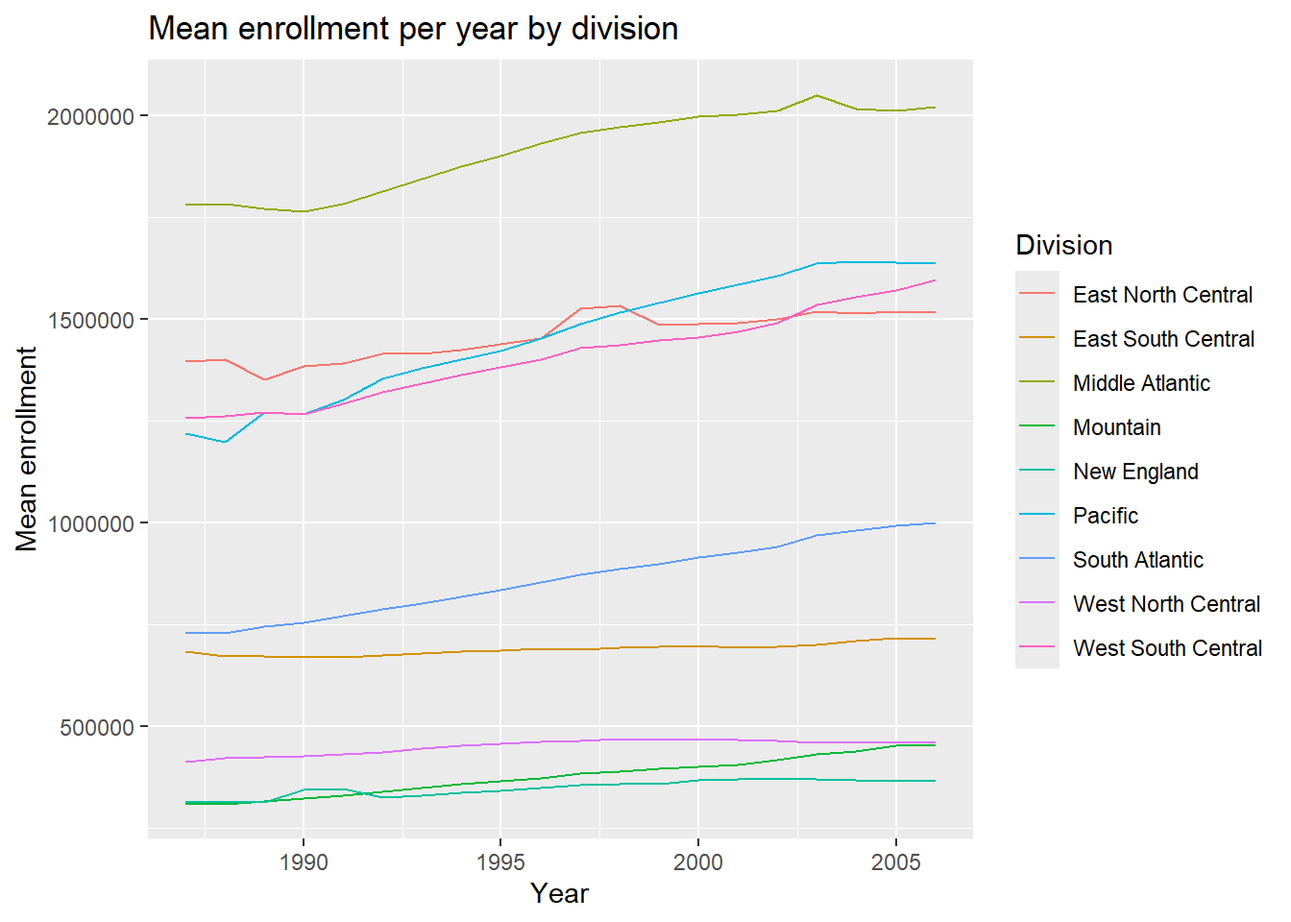
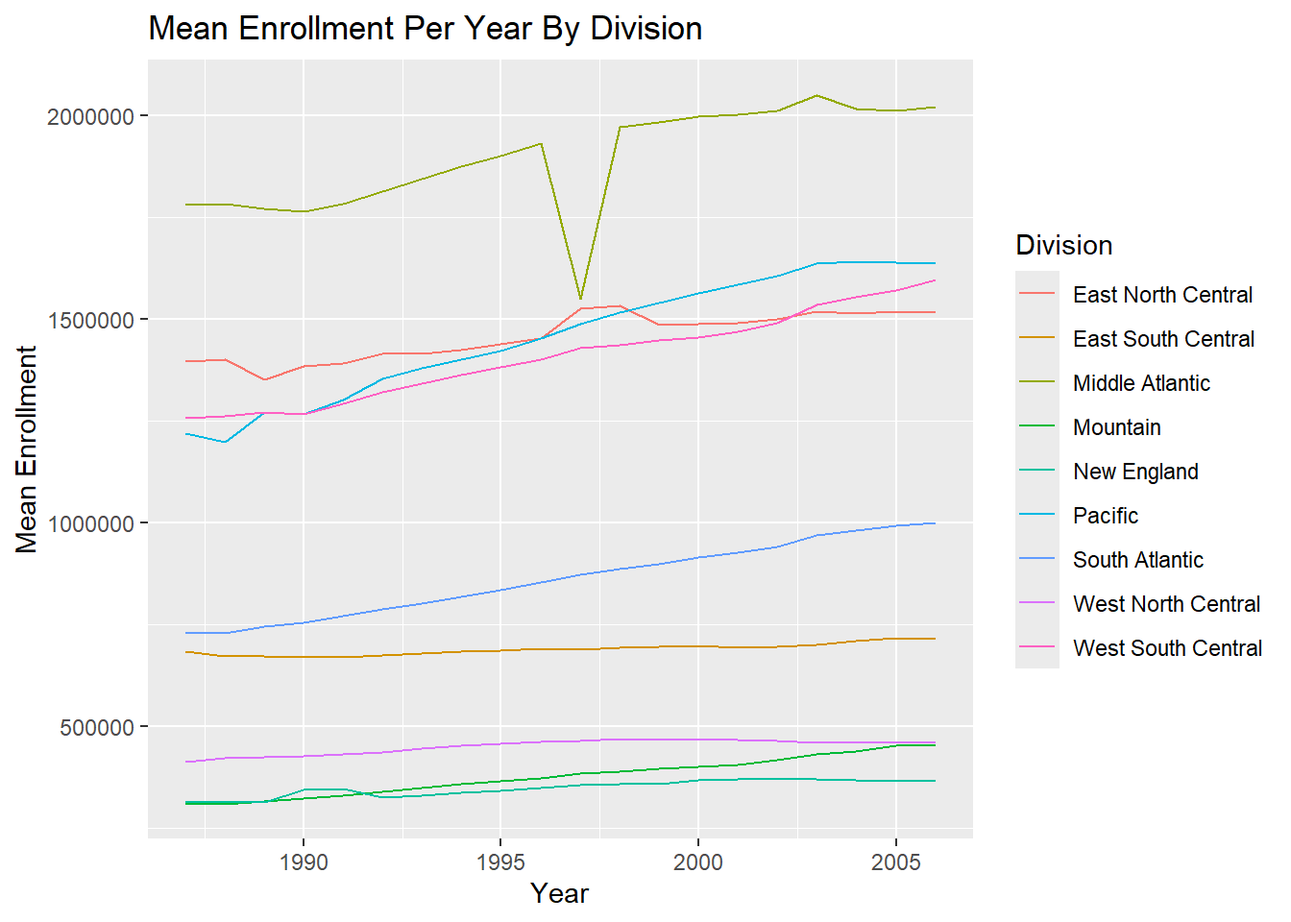
some header/narrative changes, modified state.plot to produce y-axis and title labels that are capitalized

Changed region(s): [[0.1875, 0.0, 0.5312, 0.0625], [0.0, 0.375, 0.0312, 0.5938], [0.4375, 0.2812, 0.4688, 0.3125]]

diff --git a/docs/ST558Proj1.html b/docs/ST558Proj1.html
@@ -147,9 +147,11 @@ pre > code.sourceCode > span > a:first-child::before { text-decoration: underlin
 </header>
 
 
-<section id="data-processing-first-steps" class="level1">
-<h1>Data processing first steps</h1>
+<section id="data-processing" class="level1">
+<h1>Data processing</h1>
 <p>One of the goals of this project is to create a function that can take in a URL and process and parse similar types of data sets in a specific way. The data sets we are working with are files that contain Census Bureau information.</p>
+<section id="first-steps" class="level2">
+<h2 class="anchored" data-anchor-id="first-steps">First Steps</h2>
 <section id="import-the-data" class="level3">
 <h3 class="anchored" data-anchor-id="import-the-data">Import the Data</h3>
 <p>We will start with the EDU01a data set and use it to outline the steps that will be necessary to create our wrapper function. To begin, the appropriate packages are loaded and the data imported using read_csv. This function is appropriate for csv files. The data already contains column names, which is the default for this function, so it is not necessary to specify an argument regarding column names.</p>
@@ -190,8 +192,8 @@ dbl (20): EDU010187F, EDU010187D, EDU010188F, EDU010188D, EDU010189F, EDU010...
 </div>
 </section>
 <section id="steps-1-and-2-select-columns-and-pivot-to-long-form-remove-duplicate-district-of-columbia" class="level3">
-<h3 class="anchored" data-anchor-id="steps-1-and-2-select-columns-and-pivot-to-long-form-remove-duplicate-district-of-columbia">Steps 1 and 2: Select Columns and Pivot to Long Form, remove duplicate District of Columbia</h3>
-<p>The next step is to select the columns we are interested in, followed by pivoting the data into a long format, which is more appropriate for data analysis. In this case, we are selecting Area_name, which is also being renamed to area_name, STCOU, which is a state (first 2 digits) and county (last 3 digits) code and all columns that end with a “D”. These columns ending in “D” correspond to an id that identifies the type of survey and value associated with it and the 2 digit year.</p>
+<h3 class="anchored" data-anchor-id="steps-1-and-2-select-columns-and-pivot-to-long-form-remove-duplicate-district-of-columbia">Steps 1 and 2: Select Columns and Pivot to Long Form, Remove Duplicate District of Columbia</h3>
+<p>The next step is to select the columns we are interested in, followed by pivoting the data into a long format, which is more appropriate for data analysis. In this case, we are selecting Area_name, which is also being renamed to area_name, STCOU, which is a state (first 2 digits) and county (last 3 digits) code and all columns that end with a “D”. These columns ending in “D” correspond to an id that identifies the type of survey and value associated with it and the 2 digit year. We also used filter() to remove duplicate District of Columbia data.</p>
 <div class="cell">
 <div class="sourceCode cell-code" id="cb5"><pre class="sourceCode r code-with-copy"><code class="sourceCode r"><span id="cb5-1"><a href="#cb5-1" aria-hidden="true" tabindex="-1"></a>census_1a_condensed <span class="ot">&lt;-</span> census_1a_original <span class="sc">|&gt;</span></span>
 <span id="cb5-2"><a href="#cb5-2" aria-hidden="true" tabindex="-1"></a>  <span class="fu">select</span>(Area_name, STCOU, <span class="fu">ends_with</span>(<span class="st">"D"</span>)) <span class="sc">|&gt;</span></span>
@@ -212,38 +214,33 @@ dbl (20): EDU010187F, EDU010187D, EDU010188F, EDU010188D, EDU010189F, EDU010...
 5 UNITED STATES 00000 EDU010191D   41385442
 6 UNITED STATES 00000 EDU010192D   42088151</code></pre>
 </div>
-<div class="sourceCode cell-code" id="cb7"><pre class="sourceCode r code-with-copy"><code class="sourceCode r"><span id="cb7-1"><a href="#cb7-1" aria-hidden="true" tabindex="-1"></a><span class="fu">view</span>(census_1a_condensed)</span></code><button title="Copy to Clipboard" class="code-copy-button"><i class="bi"></i></button></pre></div>
+<div class="sourceCode cell-code" id="cb7"><pre class="sourceCode r code-with-copy"><code class="sourceCode r"><span id="cb7-1"><a href="#cb7-1" aria-hidden="true" tabindex="-1"></a><span class="co">#view(census_1a_condensed)</span></span></code><button title="Copy to Clipboard" class="code-copy-button"><i class="bi"></i></button></pre></div>
 </div>
 </section>
 <section id="step-3-add-year-and-survey-code-columns" class="level3">
 <h3 class="anchored" data-anchor-id="step-3-add-year-and-survey-code-columns">Step 3: Add Year and Survey Code Columns</h3>
-<p>Next, we want to pull out the year from the item_id and convert it to an appropriate, 4-digit form placed in it’s own column. We also want to isolate and put in it’s own column the portion of the item_id that corresponds to the survey code and value associated with it. We can use the mutate function to add these columns. The substr() function allows you to extract a string based on position. For the year, for example, the numbers corresponding to the year are in the 8th and 9th position of the 10 character string. Then we add 1900 to the extracted 2 digit number to obtain the 4 digit year. The survey code is extracted in a similar manner.</p>
+<p>Next, we want to pull out the year from the item_id and convert it to an appropriate, 4-digit form placed in its own column. We also want to isolate and put in it’s own column the portion of the item_id that corresponds to the survey code and value associated with it. We can use the mutate function to add these columns. The substr() function allows you to extract a string based on position. For the year, for example, the numbers corresponding to the year are in the 8th and 9th position of the 10 character string. Then we add 1900 to the extracted 2 digit number to obtain the 4 digit year. The survey code is extracted in a similar manner.</p>
 <div class="cell">
 <div class="sourceCode cell-code" id="cb8"><pre class="sourceCode r code-with-copy"><code class="sourceCode r"><span id="cb8-1"><a href="#cb8-1" aria-hidden="true" tabindex="-1"></a>census_1a_add <span class="ot">&lt;-</span> census_1a_condensed <span class="sc">|&gt;</span></span>
 <span id="cb8-2"><a href="#cb8-2" aria-hidden="true" tabindex="-1"></a>  <span class="fu">mutate</span>(<span class="at">year =</span> (<span class="fu">as.numeric</span>(<span class="fu">substr</span>(item_id, <span class="dv">8</span>, <span class="dv">9</span>)) <span class="sc">+</span> <span class="dv">1900</span>),</span>
 <span id="cb8-3"><a href="#cb8-3" aria-hidden="true" tabindex="-1"></a>         <span class="at">survey_code =</span> <span class="fu">substr</span>(item_id, <span class="dv">1</span>, <span class="dv">7</span>))</span>
-<span id="cb8-4"><a href="#cb8-4" aria-hidden="true" tabindex="-1"></a>census_1a_add</span></code><button title="Copy to Clipboard" class="code-copy-button"><i class="bi"></i></button></pre></div>
+<span id="cb8-4"><a href="#cb8-4" aria-hidden="true" tabindex="-1"></a><span class="fu">head</span>(census_1a_add)</span></code><button title="Copy to Clipboard" class="code-copy-button"><i class="bi"></i></button></pre></div>
 <div class="cell-output cell-output-stdout">
-<pre><code># A tibble: 31,970 × 6
-   area_name     STCOU item_id    enrollment  year survey_code
-   &lt;chr&gt;         &lt;chr&gt; &lt;chr&gt;           &lt;dbl&gt; &lt;dbl&gt; &lt;chr&gt;      
- 1 UNITED STATES 00000 EDU010187D   40024299  1987 EDU0101    
- 2 UNITED STATES 00000 EDU010188D   39967624  1988 EDU0101    
- 3 UNITED STATES 00000 EDU010189D   40317775  1989 EDU0101    
- 4 UNITED STATES 00000 EDU010190D   40737600  1990 EDU0101    
- 5 UNITED STATES 00000 EDU010191D   41385442  1991 EDU0101    
- 6 UNITED STATES 00000 EDU010192D   42088151  1992 EDU0101    
- 7 UNITED STATES 00000 EDU010193D   42724710  1993 EDU0101    
- 8 UNITED STATES 00000 EDU010194D   43369917  1994 EDU0101    
- 9 UNITED STATES 00000 EDU010195D   43993459  1995 EDU0101    
-10 UNITED STATES 00000 EDU010196D   44715737  1996 EDU0101    
-# ℹ 31,960 more rows</code></pre>
+<pre><code># A tibble: 6 × 6
+  area_name     STCOU item_id    enrollment  year survey_code
+  &lt;chr&gt;         &lt;chr&gt; &lt;chr&gt;           &lt;dbl&gt; &lt;dbl&gt; &lt;chr&gt;      
+1 UNITED STATES 00000 EDU010187D   40024299  1987 EDU0101    
+2 UNITED STATES 00000 EDU010188D   39967624  1988 EDU0101    
+3 UNITED STATES 00000 EDU010189D   40317775  1989 EDU0101    
+4 UNITED STATES 00000 EDU010190D   40737600  1990 EDU0101    
+5 UNITED STATES 00000 EDU010191D   41385442  1991 EDU0101    
+6 UNITED STATES 00000 EDU010192D   42088151  1992 EDU0101    </code></pre>
 </div>
 </div>
 </section>
-<section id="step-4-create-two-data-sets" class="level3">
-<h3 class="anchored" data-anchor-id="step-4-create-two-data-sets">Step 4: Create Two Data Sets</h3>
-<p>In this next step, we separate the observations into two data sets based on the presence or absence of a character string pattern in the area_name variable. Specifically, we use the grepl() function to identify observations within the area_name column that contain the pattern of a comma followed by a space and then two consecutive characters, which is indicative of county level data. First, we use the filter() function to select only those rows that contain the pattern and store these in the county_data tibble. then we use filter() to select only those rows that do NOT contain the pattern, and store those in the noncounty_data tibble. From here, we also assign a “county” or “non-county” class to each new data set.</p>
+<section id="step-4-create-county-and-state-data-sets-from-census-data-set" class="level3">
+<h3 class="anchored" data-anchor-id="step-4-create-county-and-state-data-sets-from-census-data-set">Step 4: Create County and State Data Sets from Census Data Set</h3>
+<p>In this next step, we separate the observations into two data sets based on the presence or absence of a character string pattern in the area_name variable. Specifically, we use the grepl() function to identify observations within the area_name column that contain the pattern of a comma followed by a space and then two consecutive characters, which is indicative of county level data. First, we use the filter() function to select only those rows that contain the pattern and store these in the county_data tibble. then we use filter() to select only those rows that do NOT contain the pattern, and store those in the noncounty_data tibble. From here, we also assign a “county” or “state” class to each new data set.</p>
 <div class="cell">
 <div class="sourceCode cell-code" id="cb10"><pre class="sourceCode r code-with-copy"><code class="sourceCode r"><span id="cb10-1"><a href="#cb10-1" aria-hidden="true" tabindex="-1"></a>county_data <span class="ot">&lt;-</span> census_1a_add <span class="sc">|&gt;</span></span>
 <span id="cb10-2"><a href="#cb10-2" aria-hidden="true" tabindex="-1"></a>  <span class="fu">filter</span>(<span class="fu">grepl</span>(<span class="at">pattern =</span> <span class="st">", </span><span class="sc">\\</span><span class="st">w</span><span class="sc">\\</span><span class="st">w"</span>, area_name))</span>
@@ -287,22 +284,17 @@ dbl (20): EDU010187F, EDU010187D, EDU010188F, EDU010188D, EDU010189F, EDU010...
 <div class="sourceCode cell-code" id="cb14"><pre class="sourceCode r code-with-copy"><code class="sourceCode r"><span id="cb14-1"><a href="#cb14-1" aria-hidden="true" tabindex="-1"></a>county_data <span class="ot">&lt;-</span> county_data <span class="sc">|&gt;</span></span>
 <span id="cb14-2"><a href="#cb14-2" aria-hidden="true" tabindex="-1"></a>  <span class="fu">mutate</span>(<span class="at">state =</span> <span class="fu">substr</span>(area_name, <span class="fu">nchar</span>(area_name)<span class="sc">-</span><span class="dv">1</span>,</span>
 <span id="cb14-3"><a href="#cb14-3" aria-hidden="true" tabindex="-1"></a>                        <span class="fu">nchar</span>(area_name)))</span>
-<span id="cb14-4"><a href="#cb14-4" aria-hidden="true" tabindex="-1"></a>county_data</span></code><button title="Copy to Clipboard" class="code-copy-button"><i class="bi"></i></button></pre></div>
+<span id="cb14-4"><a href="#cb14-4" aria-hidden="true" tabindex="-1"></a><span class="fu">head</span>(county_data)</span></code><button title="Copy to Clipboard" class="code-copy-button"><i class="bi"></i></button></pre></div>
 <div class="cell-output cell-output-stdout">
-<pre><code># A tibble: 31,450 × 7
-   area_name   STCOU item_id    enrollment  year survey_code state
-   &lt;chr&gt;       &lt;chr&gt; &lt;chr&gt;           &lt;dbl&gt; &lt;dbl&gt; &lt;chr&gt;       &lt;chr&gt;
- 1 Autauga, AL 01001 EDU010187D       6829  1987 EDU0101     AL   
- 2 Autauga, AL 01001 EDU010188D       6900  1988 EDU0101     AL   
- 3 Autauga, AL 01001 EDU010189D       6920  1989 EDU0101     AL   
- 4 Autauga, AL 01001 EDU010190D       6847  1990 EDU0101     AL   
- 5 Autauga, AL 01001 EDU010191D       7008  1991 EDU0101     AL   
- 6 Autauga, AL 01001 EDU010192D       7137  1992 EDU0101     AL   
- 7 Autauga, AL 01001 EDU010193D       7152  1993 EDU0101     AL   
- 8 Autauga, AL 01001 EDU010194D       7381  1994 EDU0101     AL   
- 9 Autauga, AL 01001 EDU010195D       7568  1995 EDU0101     AL   
-10 Autauga, AL 01001 EDU010196D       7834  1996 EDU0101     AL   
-# ℹ 31,440 more rows</code></pre>
+<pre><code># A tibble: 6 × 7
+  area_name   STCOU item_id    enrollment  year survey_code state
+  &lt;chr&gt;       &lt;chr&gt; &lt;chr&gt;           &lt;dbl&gt; &lt;dbl&gt; &lt;chr&gt;       &lt;chr&gt;
+1 Autauga, AL 01001 EDU010187D       6829  1987 EDU0101     AL   
+2 Autauga, AL 01001 EDU010188D       6900  1988 EDU0101     AL   
+3 Autauga, AL 01001 EDU010189D       6920  1989 EDU0101     AL   
+4 Autauga, AL 01001 EDU010190D       6847  1990 EDU0101     AL   
+5 Autauga, AL 01001 EDU010191D       7008  1991 EDU0101     AL   
+6 Autauga, AL 01001 EDU010192D       7137  1992 EDU0101     AL   </code></pre>
 </div>
 </div>
 </section>
@@ -342,28 +334,23 @@ dbl (20): EDU010187F, EDU010187D, EDU010188F, EDU010188D, EDU010189F, EDU010...
 <span id="cb16-30"><a href="#cb16-30" aria-hidden="true" tabindex="-1"></a>                    <span class="st">"ALASKA"</span>, <span class="st">"CALIFORNIA"</span>, <span class="st">"HAWAII"</span>, <span class="st">"OREGON"</span>,</span>
 <span id="cb16-31"><a href="#cb16-31" aria-hidden="true" tabindex="-1"></a>                    <span class="st">"WASHINGTON"</span>), <span class="st">"Pacific"</span>, </span>
 <span id="cb16-32"><a href="#cb16-32" aria-hidden="true" tabindex="-1"></a>                  <span class="st">"ERROR"</span>))))))))))</span>
-<span id="cb16-33"><a href="#cb16-33" aria-hidden="true" tabindex="-1"></a>noncounty_data</span></code><button title="Copy to Clipboard" class="code-copy-button"><i class="bi"></i></button></pre></div>
+<span id="cb16-33"><a href="#cb16-33" aria-hidden="true" tabindex="-1"></a><span class="fu">head</span>(noncounty_data)</span></code><button title="Copy to Clipboard" class="code-copy-button"><i class="bi"></i></button></pre></div>
 <div class="cell-output cell-output-stdout">
-<pre><code># A tibble: 520 × 7
-   area_name     STCOU item_id    enrollment  year survey_code division
-   &lt;chr&gt;         &lt;chr&gt; &lt;chr&gt;           &lt;dbl&gt; &lt;dbl&gt; &lt;chr&gt;       &lt;chr&gt;   
- 1 UNITED STATES 00000 EDU010187D   40024299  1987 EDU0101     ERROR   
- 2 UNITED STATES 00000 EDU010188D   39967624  1988 EDU0101     ERROR   
- 3 UNITED STATES 00000 EDU010189D   40317775  1989 EDU0101     ERROR   
- 4 UNITED STATES 00000 EDU010190D   40737600  1990 EDU0101     ERROR   
- 5 UNITED STATES 00000 EDU010191D   41385442  1991 EDU0101     ERROR   
- 6 UNITED STATES 00000 EDU010192D   42088151  1992 EDU0101     ERROR   
- 7 UNITED STATES 00000 EDU010193D   42724710  1993 EDU0101     ERROR   
- 8 UNITED STATES 00000 EDU010194D   43369917  1994 EDU0101     ERROR   
- 9 UNITED STATES 00000 EDU010195D   43993459  1995 EDU0101     ERROR   
-10 UNITED STATES 00000 EDU010196D   44715737  1996 EDU0101     ERROR   
-# ℹ 510 more rows</code></pre>
+<pre><code># A tibble: 6 × 7
+  area_name     STCOU item_id    enrollment  year survey_code division
+  &lt;chr&gt;         &lt;chr&gt; &lt;chr&gt;           &lt;dbl&gt; &lt;dbl&gt; &lt;chr&gt;       &lt;chr&gt;   
+1 UNITED STATES 00000 EDU010187D   40024299  1987 EDU0101     ERROR   
+2 UNITED STATES 00000 EDU010188D   39967624  1988 EDU0101     ERROR   
+3 UNITED STATES 00000 EDU010189D   40317775  1989 EDU0101     ERROR   
+4 UNITED STATES 00000 EDU010190D   40737600  1990 EDU0101     ERROR   
+5 UNITED STATES 00000 EDU010191D   41385442  1991 EDU0101     ERROR   
+6 UNITED STATES 00000 EDU010192D   42088151  1992 EDU0101     ERROR   </code></pre>
 </div>
 </div>
 </section>
 </section>
-<section id="data-processing-function-creation" class="level1">
-<h1>Data processing function creation</h1>
+<section id="data-processing-function-creation" class="level2">
+<h2 class="anchored" data-anchor-id="data-processing-function-creation">Data processing function creation</h2>
 <p>We now turn to a second data set EDU01b, which contains data structured similarly to EDU01a, with measurements from areas of the country taken across different years. In the steps below, we will recreate the steps above for this new data, but rather than simply copying code and modifying to apply to this one new data set, we will create functions that can apply the same set of steps to any similar data set.</p>
 <section id="import-the-data-1" class="level3">
 <h3 class="anchored" data-anchor-id="import-the-data-1">Import the data</h3>
@@ -626,8 +613,9 @@ $noncounty_data
 </div>
 </div>
 </section>
-<section id="data-combining-function" class="level3">
-<h3 class="anchored" data-anchor-id="data-combining-function">Data Combining Function</h3>
+</section>
+<section id="data-combining-function" class="level2">
+<h2 class="anchored" data-anchor-id="data-combining-function">Data Combining Function</h2>
 <p>In this final step for preparing the data, we create a function that takes in the results of two calls of the wrapper function and combines them. Specifically, we use the bind_rows function to append the rows of two like tibbles together, resulting in two new comprehensive tibbles (one for county and one for state data). These are output into a single list object.</p>
 <div class="cell">
 <div class="sourceCode cell-code" id="cb36"><pre class="sourceCode r code-with-copy"><code class="sourceCode r"><span id="cb36-1"><a href="#cb36-1" aria-hidden="true" tabindex="-1"></a>combine_census_lists <span class="ot">&lt;-</span> <span class="cf">function</span>(list1, list2) {</span>
@@ -735,7 +723,7 @@ $noncounty_data
 # ℹ 170 more rows</code></pre>
 </div>
 </div>
-<p>incorporate var_name in the plot function,</p>
+<p>incorporate var_name in the mean call</p>
 <div class="cell">
 <div class="sourceCode cell-code" id="cb44"><pre class="sourceCode r code-with-copy"><code class="sourceCode r"><span id="cb44-1"><a href="#cb44-1" aria-hidden="true" tabindex="-1"></a>state.plot <span class="ot">&lt;-</span> <span class="cf">function</span>(df, <span class="at">var_name =</span> <span class="st">"enrollment"</span>) {</span>
 <span id="cb44-2"><a href="#cb44-2" aria-hidden="true" tabindex="-1"></a>  result <span class="ot">&lt;-</span> df[[<span class="dv">2</span>]] <span class="sc">|&gt;</span></span>
@@ -792,25 +780,24 @@ $noncounty_data
 </div>
 </div>
 <p>add layers</p>
-<p>need to add “mean” so that y-axis is “mean enrollment”, maybe capitalize labels</p>
 <div class="cell">
 <div class="sourceCode cell-code" id="cb49"><pre class="sourceCode r code-with-copy"><code class="sourceCode r"><span id="cb49-1"><a href="#cb49-1" aria-hidden="true" tabindex="-1"></a>state.plot <span class="ot">&lt;-</span> <span class="cf">function</span>(df, <span class="at">var_name =</span> <span class="st">"enrollment"</span>) {</span>
 <span id="cb49-2"><a href="#cb49-2" aria-hidden="true" tabindex="-1"></a>  result <span class="ot">&lt;-</span> df[[<span class="dv">2</span>]] <span class="sc">|&gt;</span></span>
 <span id="cb49-3"><a href="#cb49-3" aria-hidden="true" tabindex="-1"></a>    <span class="fu">filter</span>(area_name <span class="sc">!=</span> <span class="st">"UNITED STATES"</span>) <span class="sc">|&gt;</span> </span>
 <span id="cb49-4"><a href="#cb49-4" aria-hidden="true" tabindex="-1"></a>    <span class="fu">group_by</span>(division, year) <span class="sc">|&gt;</span> </span>
-<span id="cb49-5"><a href="#cb49-5" aria-hidden="true" tabindex="-1"></a>    <span class="fu">summarize</span>(<span class="at">mean_values =</span> <span class="fu">mean</span>(<span class="fu">get</span>(var_name)))</span>
+<span id="cb49-5"><a href="#cb49-5" aria-hidden="true" tabindex="-1"></a>    <span class="fu">summarize</span>(<span class="at">mean_values =</span> <span class="fu">mean</span>(<span class="fu">get</span>(var_name)), <span class="at">.groups =</span> <span class="st">"drop"</span>)</span>
 <span id="cb49-6"><a href="#cb49-6" aria-hidden="true" tabindex="-1"></a>  g <span class="ot">&lt;-</span> <span class="fu">ggplot</span>(result, <span class="fu">aes</span>(<span class="at">x =</span> year, <span class="at">y =</span> mean_values, <span class="at">color =</span> division)) <span class="sc">+</span></span>
 <span id="cb49-7"><a href="#cb49-7" aria-hidden="true" tabindex="-1"></a>    <span class="fu">geom_line</span>() <span class="sc">+</span></span>
-<span id="cb49-8"><a href="#cb49-8" aria-hidden="true" tabindex="-1"></a>    <span class="fu">labs</span> (<span class="at">x =</span> <span class="st">"Year"</span>, <span class="at">y =</span> <span class="fu">paste</span>(<span class="st">"Mean"</span>, var_name), <span class="at">color =</span> <span class="st">"Division"</span>, </span>
-<span id="cb49-9"><a href="#cb49-9" aria-hidden="true" tabindex="-1"></a>          <span class="at">title =</span> <span class="fu">paste</span>(<span class="st">"Mean"</span>, var_name, <span class="st">"per year by division"</span>))</span>
+<span id="cb49-8"><a href="#cb49-8" aria-hidden="true" tabindex="-1"></a>    <span class="fu">labs</span> (<span class="at">x =</span> <span class="st">"Year"</span>, <span class="at">y =</span> <span class="fu">str_to_title</span>(<span class="fu">paste</span>(<span class="st">"mean"</span>, var_name)), <span class="at">color =</span> <span class="st">"Division"</span>, </span>
+<span id="cb49-9"><a href="#cb49-9" aria-hidden="true" tabindex="-1"></a>          <span class="at">title =</span> <span class="fu">str_to_title</span>(<span class="fu">paste</span>(<span class="st">"mean"</span>, var_name, <span class="st">"per year by division"</span>)))</span>
 <span id="cb49-10"><a href="#cb49-10" aria-hidden="true" tabindex="-1"></a>  <span class="fu">return</span>(g)</span>
 <span id="cb49-11"><a href="#cb49-11" aria-hidden="true" tabindex="-1"></a>}</span>
 <span id="cb49-12"><a href="#cb49-12" aria-hidden="true" tabindex="-1"></a></span>
 <span id="cb49-13"><a href="#cb49-13" aria-hidden="true" tabindex="-1"></a><span class="fu">state.plot</span>(combined_census_lists_EDU)</span></code><button title="Copy to Clipboard" class="code-copy-button"><i class="bi"></i></button></pre></div>
 </div>
 <section id="investigation-of-possible-outlier-in-middle-atlantic" class="level3">
-<h3 class="anchored" data-anchor-id="investigation-of-possible-outlier-in-middle-atlantic">Investigation of possible outlier in Middle Atlantic</h3>
-<p>There is a decrease in enrollment in 1997 for the Middle Atlantic, so there may be an outlier. The data was filtered for 1997 and Middle Atlantic. We can see that the public education enrollment for New Jersey is recorded as zero.</p>
+<h3 class="anchored" data-anchor-id="investigation-of-possible-outlier-in-middle-atlantic">Investigation of Possible Outlier in Middle Atlantic</h3>
+<p>There is a decrease in enrollment in 1997 for the Middle Atlantic, so there may be an outlier. The data was filtered for 1997 and Middle Atlantic. We can see that the enrollment for New Jersey is recorded as zero.</p>
 <div class="cell">
 <div class="sourceCode cell-code" id="cb50"><pre class="sourceCode r code-with-copy"><code class="sourceCode r"><span id="cb50-1"><a href="#cb50-1" aria-hidden="true" tabindex="-1"></a>outlier_mid_atlantic <span class="ot">&lt;-</span> combined_census_lists_EDU[[<span class="dv">2</span>]] <span class="sc">|&gt;</span></span>
 <span id="cb50-2"><a href="#cb50-2" aria-hidden="true" tabindex="-1"></a>  <span class="fu">filter</span>(year <span class="sc">==</span> <span class="dv">1997</span>, division <span class="sc">==</span> <span class="st">"Middle Atlantic"</span>)</span>
@@ -824,7 +811,7 @@ $noncounty_data
 3 PENNSYLVANIA 42000 EDU010197D    1804256  1997 EDU0101     Middle Atlantic</code></pre>
 </div>
 </div>
-<p>EDU01097 corresponds to public education enrollment for fall 1996-1997. An online search found a document from the New Jersey Department of Education indicating that enrollment for the 1996-1997 school year was 1,227,832, so we will replace the zero with this number and rerun the plot function. (<a href="https://nces.ed.gov/pubs2000/stateprofiles/pdf/new_jersey.pdf" class="uri">https://nces.ed.gov/pubs2000/stateprofiles/pdf/new_jersey.pdf</a>). In the new plot function, the incorrect value will be replaced using ifelse() in a mutate statement.</p>
+<p>EDU01097 corresponds to public education enrollment for fall 1996-1997. An online search found a document from the New Jersey Department of Education indicating that enrollment for the 1996-1997 school year was 1,227,832, so we will replace the zero with this number and rerun a modified plot function. (<a href="https://nces.ed.gov/pubs2000/stateprofiles/pdf/new_jersey.pdf" class="uri">https://nces.ed.gov/pubs2000/stateprofiles/pdf/new_jersey.pdf</a>). In the new plot function presented below, the incorrect value is replaced using ifelse() in a mutate statement.</p>
 <div class="cell">
 <div class="sourceCode cell-code" id="cb52"><pre class="sourceCode r code-with-copy"><code class="sourceCode r"><span id="cb52-1"><a href="#cb52-1" aria-hidden="true" tabindex="-1"></a>state.plot <span class="ot">&lt;-</span> <span class="cf">function</span>(df, <span class="at">var_name =</span> <span class="st">"enrollment"</span>) {</span>
 <span id="cb52-2"><a href="#cb52-2" aria-hidden="true" tabindex="-1"></a>  result <span class="ot">&lt;-</span> df[[<span class="dv">2</span>]] <span class="sc">|&gt;</span></span>
@@ -834,12 +821,13 @@ $noncounty_data
 <span id="cb52-6"><a href="#cb52-6" aria-hidden="true" tabindex="-1"></a>    <span class="fu">summarize</span>(<span class="at">mean_values =</span> <span class="fu">mean</span>(<span class="fu">get</span>(var_name)), <span class="at">.groups =</span> <span class="st">"drop"</span>)</span>
 <span id="cb52-7"><a href="#cb52-7" aria-hidden="true" tabindex="-1"></a>  g <span class="ot">&lt;-</span> <span class="fu">ggplot</span>(result, <span class="fu">aes</span>(<span class="at">x =</span> year, <span class="at">y =</span> mean_values, <span class="at">color =</span> division)) <span class="sc">+</span></span>
 <span id="cb52-8"><a href="#cb52-8" aria-hidden="true" tabindex="-1"></a>    <span class="fu">geom_line</span>() <span class="sc">+</span></span>
-<span id="cb52-9"><a href="#cb52-9" aria-hidden="true" tabindex="-1"></a>    <span class="fu">labs</span> (<span class="at">x =</span> <span class="st">"Year"</span>, <span class="at">y =</span> <span class="fu">paste</span>(<span class="st">"Mean"</span>, var_name), <span class="at">color =</span> <span class="st">"Division"</span>, </span>
-<span id="cb52-10"><a href="#cb52-10" aria-hidden="true" tabindex="-1"></a>          <span class="at">title =</span> <span class="fu">paste</span>(<span class="st">"Mean"</span>, var_name, <span class="st">"per year by division"</span>))</span>
-<span id="cb52-11"><a href="#cb52-11" aria-hidden="true" tabindex="-1"></a>  <span class="fu">return</span>(g)</span>
-<span id="cb52-12"><a href="#cb52-12" aria-hidden="true" tabindex="-1"></a>}</span>
-<span id="cb52-13"><a href="#cb52-13" aria-hidden="true" tabindex="-1"></a></span>
-<span id="cb52-14"><a href="#cb52-14" aria-hidden="true" tabindex="-1"></a><span class="fu">state.plot</span>(combined_census_lists_EDU)</span></code><button title="Copy to Clipboard" class="code-copy-button"><i class="bi"></i></button></pre></div>
+<span id="cb52-9"><a href="#cb52-9" aria-hidden="true" tabindex="-1"></a>    <span class="fu">labs</span> (<span class="at">x =</span> <span class="st">"Year"</span>, <span class="at">y =</span> <span class="fu">str_to_title</span>(<span class="fu">paste</span>(<span class="st">"mean"</span>, var_name)), </span>
+<span id="cb52-10"><a href="#cb52-10" aria-hidden="true" tabindex="-1"></a>          <span class="at">color =</span> <span class="st">"Division"</span>, </span>
+<span id="cb52-11"><a href="#cb52-11" aria-hidden="true" tabindex="-1"></a>          <span class="at">title =</span> <span class="fu">str_to_title</span>(<span class="fu">paste</span>(<span class="st">"mean"</span>, var_name, <span class="st">"per year by division"</span>)))</span>
+<span id="cb52-12"><a href="#cb52-12" aria-hidden="true" tabindex="-1"></a>  <span class="fu">return</span>(g)</span>
+<span id="cb52-13"><a href="#cb52-13" aria-hidden="true" tabindex="-1"></a>}</span>
+<span id="cb52-14"><a href="#cb52-14" aria-hidden="true" tabindex="-1"></a></span>
+<span id="cb52-15"><a href="#cb52-15" aria-hidden="true" tabindex="-1"></a><span class="fu">state.plot</span>(combined_census_lists_EDU)</span></code><button title="Copy to Clipboard" class="code-copy-button"><i class="bi"></i></button></pre></div>
 </div>
 </section>
 </section>
@@ -999,21 +987,22 @@ $noncounty_data
 </section>
 <section id="state-plot-function-applied-to-edu-data-sets" class="level3">
 <h3 class="anchored" data-anchor-id="state-plot-function-applied-to-edu-data-sets">State Plot Function Applied to EDU Data Sets</h3>
+<section id="with-outlier" class="level4">
+<h4 class="anchored" data-anchor-id="with-outlier">With Outlier</h4>
 <div class="cell">
 <div class="sourceCode cell-code" id="cb63"><pre class="sourceCode r code-with-copy"><code class="sourceCode r"><span id="cb63-1"><a href="#cb63-1" aria-hidden="true" tabindex="-1"></a>state.plot <span class="ot">&lt;-</span> <span class="cf">function</span>(df, <span class="at">var_name =</span> <span class="st">"enrollment"</span>) {</span>
 <span id="cb63-2"><a href="#cb63-2" aria-hidden="true" tabindex="-1"></a>  result <span class="ot">&lt;-</span> df[[<span class="dv">2</span>]] <span class="sc">|&gt;</span></span>
 <span id="cb63-3"><a href="#cb63-3" aria-hidden="true" tabindex="-1"></a>    <span class="fu">filter</span>(area_name <span class="sc">!=</span> <span class="st">"UNITED STATES"</span>) <span class="sc">|&gt;</span> </span>
-<span id="cb63-4"><a href="#cb63-4" aria-hidden="true" tabindex="-1"></a>    <span class="fu">mutate</span>(<span class="at">enrollment =</span> <span class="fu">ifelse</span>(area_name <span class="sc">==</span> <span class="st">"NEW JERSEY"</span> <span class="sc">&amp;</span> year <span class="sc">==</span> <span class="dv">1997</span> <span class="sc">&amp;</span> enrollment <span class="sc">==</span> <span class="dv">0</span>, <span class="dv">1227832</span>, enrollment)) <span class="sc">|&gt;</span></span>
-<span id="cb63-5"><a href="#cb63-5" aria-hidden="true" tabindex="-1"></a>    <span class="fu">group_by</span>(division, year) <span class="sc">|&gt;</span> </span>
-<span id="cb63-6"><a href="#cb63-6" aria-hidden="true" tabindex="-1"></a>    <span class="fu">summarize</span>(<span class="at">mean_values =</span> <span class="fu">mean</span>(<span class="fu">get</span>(var_name)), <span class="at">.groups =</span> <span class="st">"drop"</span>)</span>
-<span id="cb63-7"><a href="#cb63-7" aria-hidden="true" tabindex="-1"></a>  g <span class="ot">&lt;-</span> <span class="fu">ggplot</span>(result, <span class="fu">aes</span>(<span class="at">x =</span> year, <span class="at">y =</span> mean_values, <span class="at">color =</span> division)) <span class="sc">+</span></span>
-<span id="cb63-8"><a href="#cb63-8" aria-hidden="true" tabindex="-1"></a>    <span class="fu">geom_line</span>() <span class="sc">+</span></span>
-<span id="cb63-9"><a href="#cb63-9" aria-hidden="true" tabindex="-1"></a>    <span class="fu">labs</span> (<span class="at">x =</span> <span class="st">"Year"</span>, <span class="at">y =</span> <span class="fu">paste</span>(<span class="st">"Mean"</span>, var_name), <span class="at">color =</span> <span class="st">"Division"</span>, </span>
-<span id="cb63-10"><a href="#cb63-10" aria-hidden="true" tabindex="-1"></a>          <span class="at">title =</span> <span class="fu">paste</span>(<span class="st">"Mean"</span>, var_name, <span class="st">"per year by division"</span>))</span>
-<span id="cb63-11"><a href="#cb63-11" aria-hidden="true" tabindex="-1"></a>  <span class="fu">return</span>(g)</span>
-<span id="cb63-12"><a href="#cb63-12" aria-hidden="true" tabindex="-1"></a>}</span>
-<span id="cb63-13"><a href="#cb63-13" aria-hidden="true" tabindex="-1"></a></span>
-<span id="cb63-14"><a href="#cb63-14" aria-hidden="true" tabindex="-1"></a><span class="fu">state.plot</span>(combined_census_lists_EDU)</span></code><button title="Copy to Clipboard" class="code-copy-button"><i class="bi"></i></button></pre></div>
+<span id="cb63-4"><a href="#cb63-4" aria-hidden="true" tabindex="-1"></a>    <span class="fu">group_by</span>(division, year) <span class="sc">|&gt;</span> </span>
+<span id="cb63-5"><a href="#cb63-5" aria-hidden="true" tabindex="-1"></a>    <span class="fu">summarize</span>(<span class="at">mean_values =</span> <span class="fu">mean</span>(<span class="fu">get</span>(var_name)), <span class="at">.groups =</span> <span class="st">"drop"</span>)</span>
+<span id="cb63-6"><a href="#cb63-6" aria-hidden="true" tabindex="-1"></a>  g <span class="ot">&lt;-</span> <span class="fu">ggplot</span>(result, <span class="fu">aes</span>(<span class="at">x =</span> year, <span class="at">y =</span> mean_values, <span class="at">color =</span> division)) <span class="sc">+</span></span>
+<span id="cb63-7"><a href="#cb63-7" aria-hidden="true" tabindex="-1"></a>    <span class="fu">geom_line</span>() <span class="sc">+</span></span>
+<span id="cb63-8"><a href="#cb63-8" aria-hidden="true" tabindex="-1"></a>    <span class="fu">labs</span> (<span class="at">x =</span> <span class="st">"Year"</span>, <span class="at">y =</span> <span class="fu">str_to_title</span>(<span class="fu">paste</span>(<span class="st">"mean"</span>, var_name)), <span class="at">color =</span> <span class="st">"Division"</span>, </span>
+<span id="cb63-9"><a href="#cb63-9" aria-hidden="true" tabindex="-1"></a>          <span class="at">title =</span> <span class="fu">str_to_title</span>(<span class="fu">paste</span>(<span class="st">"mean"</span>, var_name, <span class="st">"per year by division"</span>)))</span>
+<span id="cb63-10"><a href="#cb63-10" aria-hidden="true" tabindex="-1"></a>  <span class="fu">return</span>(g)</span>
+<span id="cb63-11"><a href="#cb63-11" aria-hidden="true" tabindex="-1"></a>}</span>
+<span id="cb63-12"><a href="#cb63-12" aria-hidden="true" tabindex="-1"></a></span>
+<span id="cb63-13"><a href="#cb63-13" aria-hidden="true" tabindex="-1"></a><span class="fu">state.plot</span>(combined_census_lists_EDU)</span></code><button title="Copy to Clipboard" class="code-copy-button"><i class="bi"></i></button></pre></div>
 <div class="cell-output-display">
 <div>
 <figure class="figure">
@@ -1022,6 +1011,34 @@ $noncounty_data
 </div>
 </div>
 </div>
+</section>
+<section id="with-outlier-replaced" class="level4">
+<h4 class="anchored" data-anchor-id="with-outlier-replaced">With Outlier Replaced</h4>
+<div class="cell">
+<div class="sourceCode cell-code" id="cb64"><pre class="sourceCode r code-with-copy"><code class="sourceCode r"><span id="cb64-1"><a href="#cb64-1" aria-hidden="true" tabindex="-1"></a>state.plot <span class="ot">&lt;-</span> <span class="cf">function</span>(df, <span class="at">var_name =</span> <span class="st">"enrollment"</span>) {</span>
+<span id="cb64-2"><a href="#cb64-2" aria-hidden="true" tabindex="-1"></a>  result <span class="ot">&lt;-</span> df[[<span class="dv">2</span>]] <span class="sc">|&gt;</span></span>
+<span id="cb64-3"><a href="#cb64-3" aria-hidden="true" tabindex="-1"></a>    <span class="fu">filter</span>(area_name <span class="sc">!=</span> <span class="st">"UNITED STATES"</span>) <span class="sc">|&gt;</span> </span>
+<span id="cb64-4"><a href="#cb64-4" aria-hidden="true" tabindex="-1"></a>    <span class="fu">mutate</span>(<span class="at">enrollment =</span> <span class="fu">ifelse</span>(area_name <span class="sc">==</span> <span class="st">"NEW JERSEY"</span> <span class="sc">&amp;</span> year <span class="sc">==</span> <span class="dv">1997</span> <span class="sc">&amp;</span> enrollment <span class="sc">==</span> <span class="dv">0</span>, <span class="dv">1227832</span>, enrollment)) <span class="sc">|&gt;</span></span>
+<span id="cb64-5"><a href="#cb64-5" aria-hidden="true" tabindex="-1"></a>    <span class="fu">group_by</span>(division, year) <span class="sc">|&gt;</span> </span>
+<span id="cb64-6"><a href="#cb64-6" aria-hidden="true" tabindex="-1"></a>    <span class="fu">summarize</span>(<span class="at">mean_values =</span> <span class="fu">mean</span>(<span class="fu">get</span>(var_name)), <span class="at">.groups =</span> <span class="st">"drop"</span>)</span>
+<span id="cb64-7"><a href="#cb64-7" aria-hidden="true" tabindex="-1"></a>  g <span class="ot">&lt;-</span> <span class="fu">ggplot</span>(result, <span class="fu">aes</span>(<span class="at">x =</span> year, <span class="at">y =</span> mean_values, <span class="at">color =</span> division)) <span class="sc">+</span></span>
+<span id="cb64-8"><a href="#cb64-8" aria-hidden="true" tabindex="-1"></a>    <span class="fu">geom_line</span>() <span class="sc">+</span></span>
+<span id="cb64-9"><a href="#cb64-9" aria-hidden="true" tabindex="-1"></a>    <span class="fu">labs</span> (<span class="at">x =</span> <span class="st">"Year"</span>, <span class="at">y =</span> <span class="fu">str_to_title</span>(<span class="fu">paste</span>(<span class="st">"mean"</span>, var_name)), </span>
+<span id="cb64-10"><a href="#cb64-10" aria-hidden="true" tabindex="-1"></a>          <span class="at">color =</span> <span class="st">"Division"</span>, </span>
+<span id="cb64-11"><a href="#cb64-11" aria-hidden="true" tabindex="-1"></a>          <span class="at">title =</span> <span class="fu">str_to_title</span>(<span class="fu">paste</span>(<span class="st">"mean"</span>, var_name, <span class="st">"per year by division"</span>)))</span>
+<span id="cb64-12"><a href="#cb64-12" aria-hidden="true" tabindex="-1"></a>  <span class="fu">return</span>(g)</span>
+<span id="cb64-13"><a href="#cb64-13" aria-hidden="true" tabindex="-1"></a>}</span>
+<span id="cb64-14"><a href="#cb64-14" aria-hidden="true" tabindex="-1"></a></span>
+<span id="cb64-15"><a href="#cb64-15" aria-hidden="true" tabindex="-1"></a><span class="fu">state.plot</span>(combined_census_lists_EDU)</span></code><button title="Copy to Clipboard" class="code-copy-button"><i class="bi"></i></button></pre></div>
+<div class="cell-output-display">
+<div>
+<figure class="figure">
+<p><img src="ST558Proj1_files/figure-html/unnamed-chunk-28-1.png" class="img-fluid figure-img" width="672"></p>
+</figure>
+</div>
+</div>
+</div>
+</section>
 </section>
 <section id="county-plot-function-applied-to-edu-data-sets" class="level3">
 <h3 class="anchored" data-anchor-id="county-plot-function-applied-to-edu-data-sets">County Plot Function Applied to EDU Data Sets</h3>
